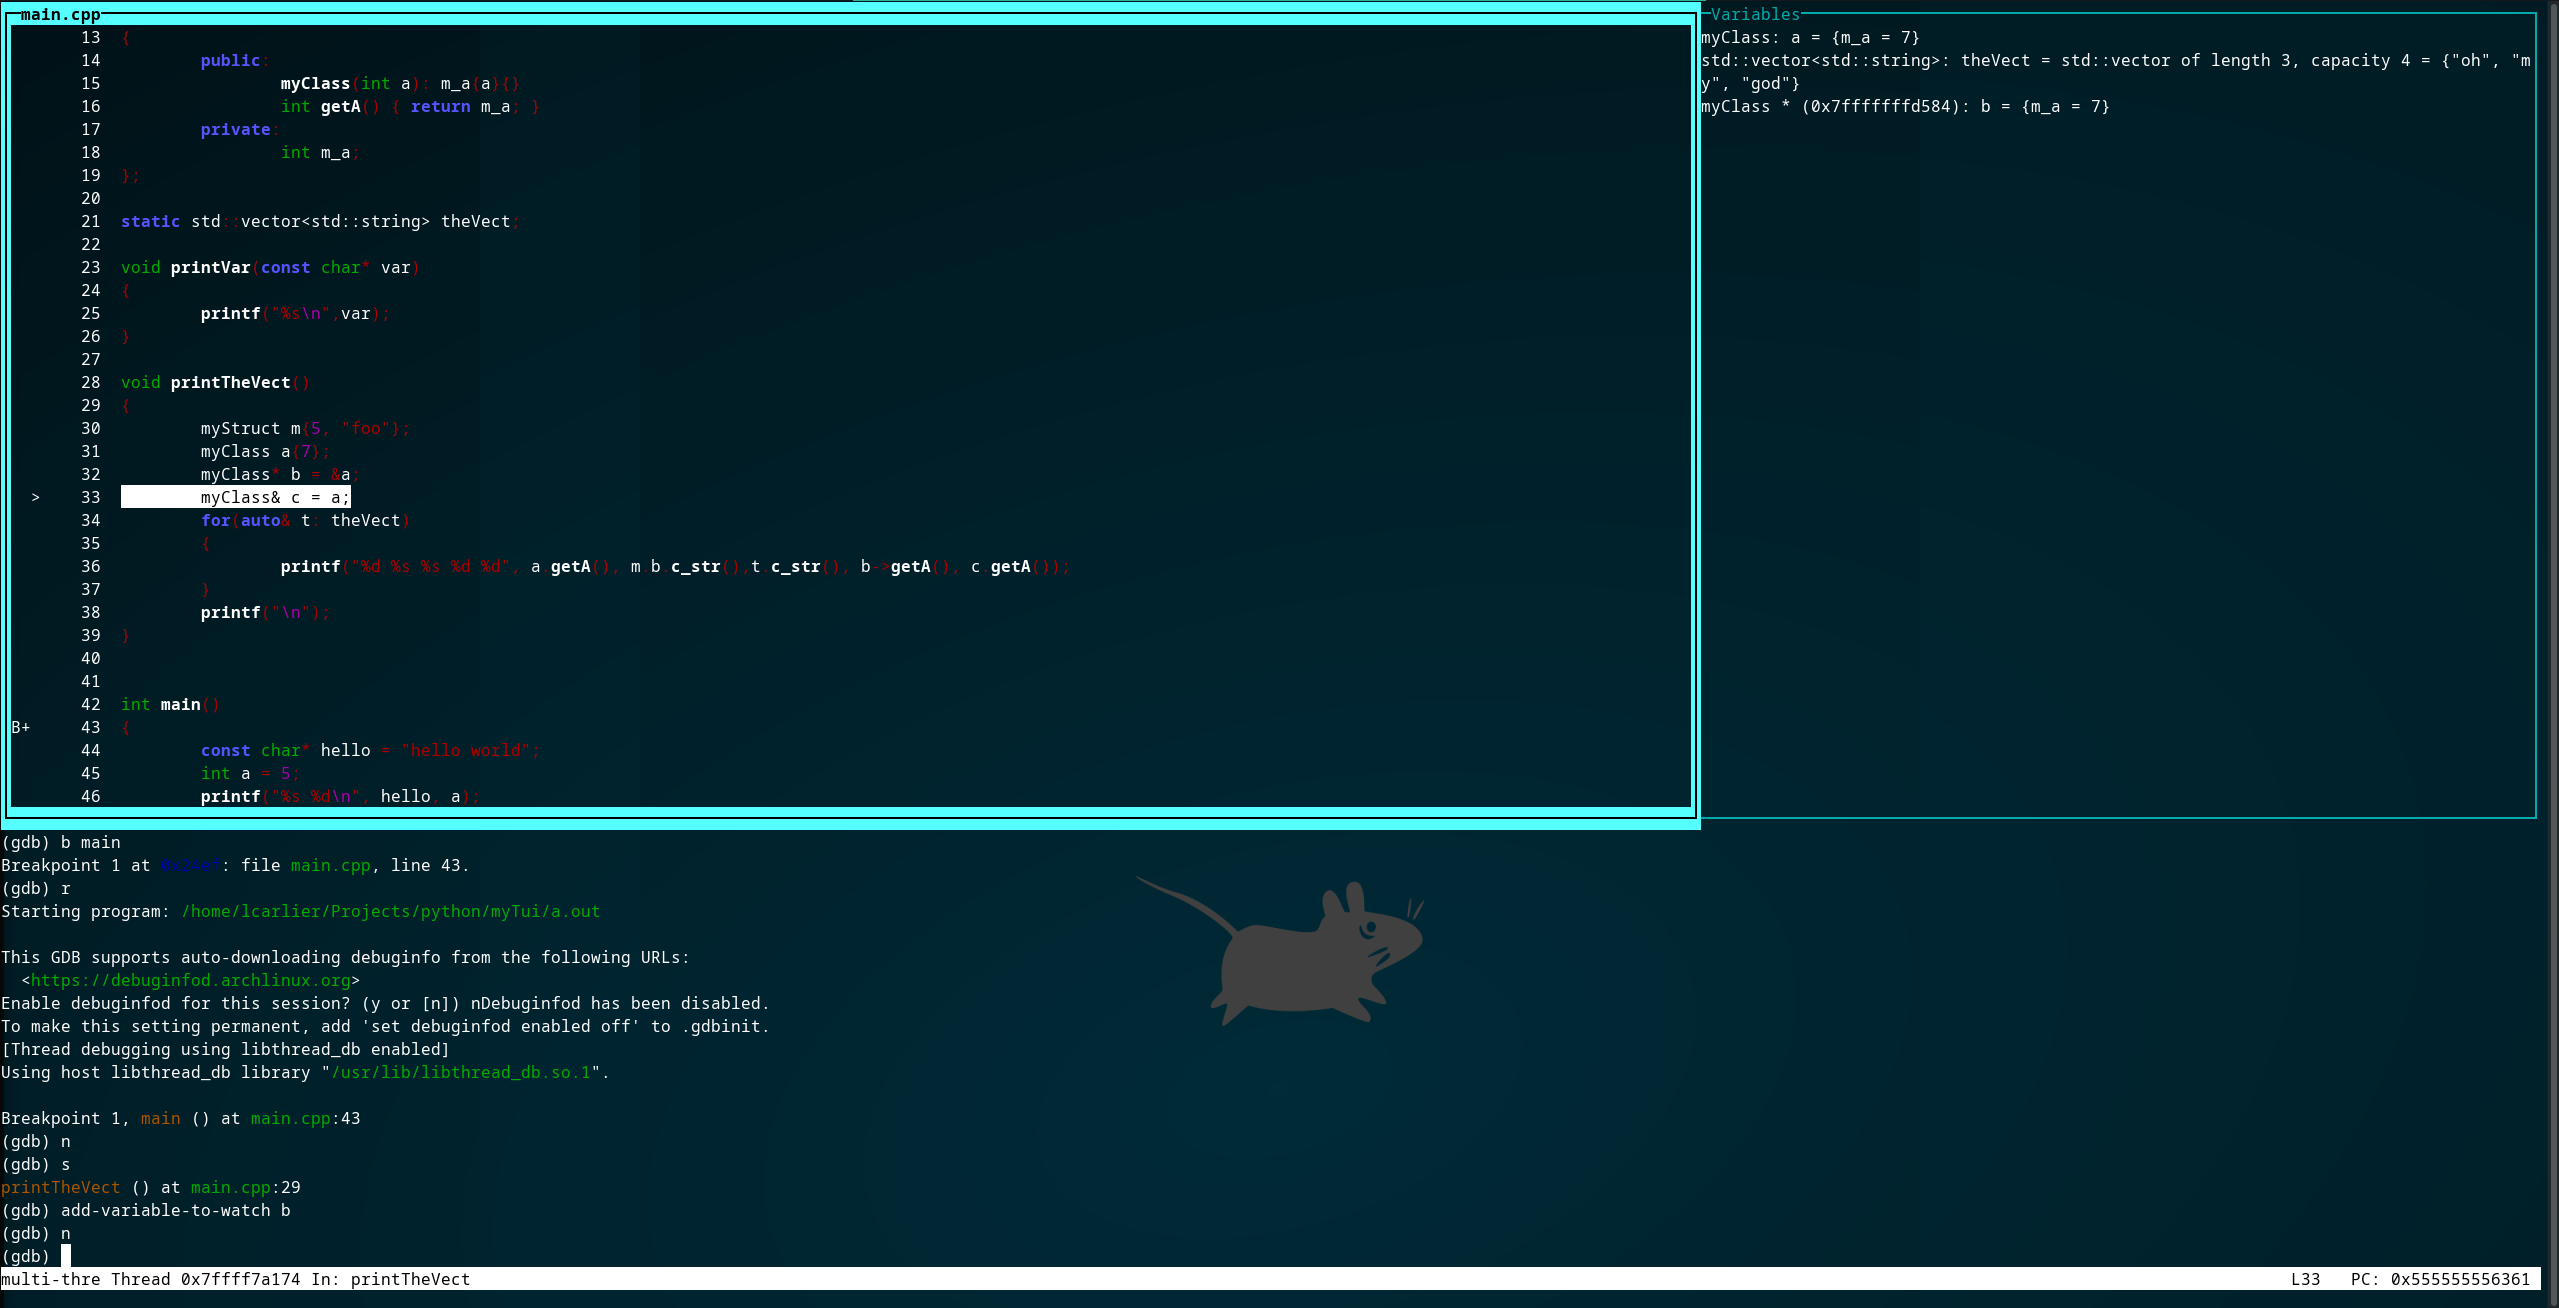
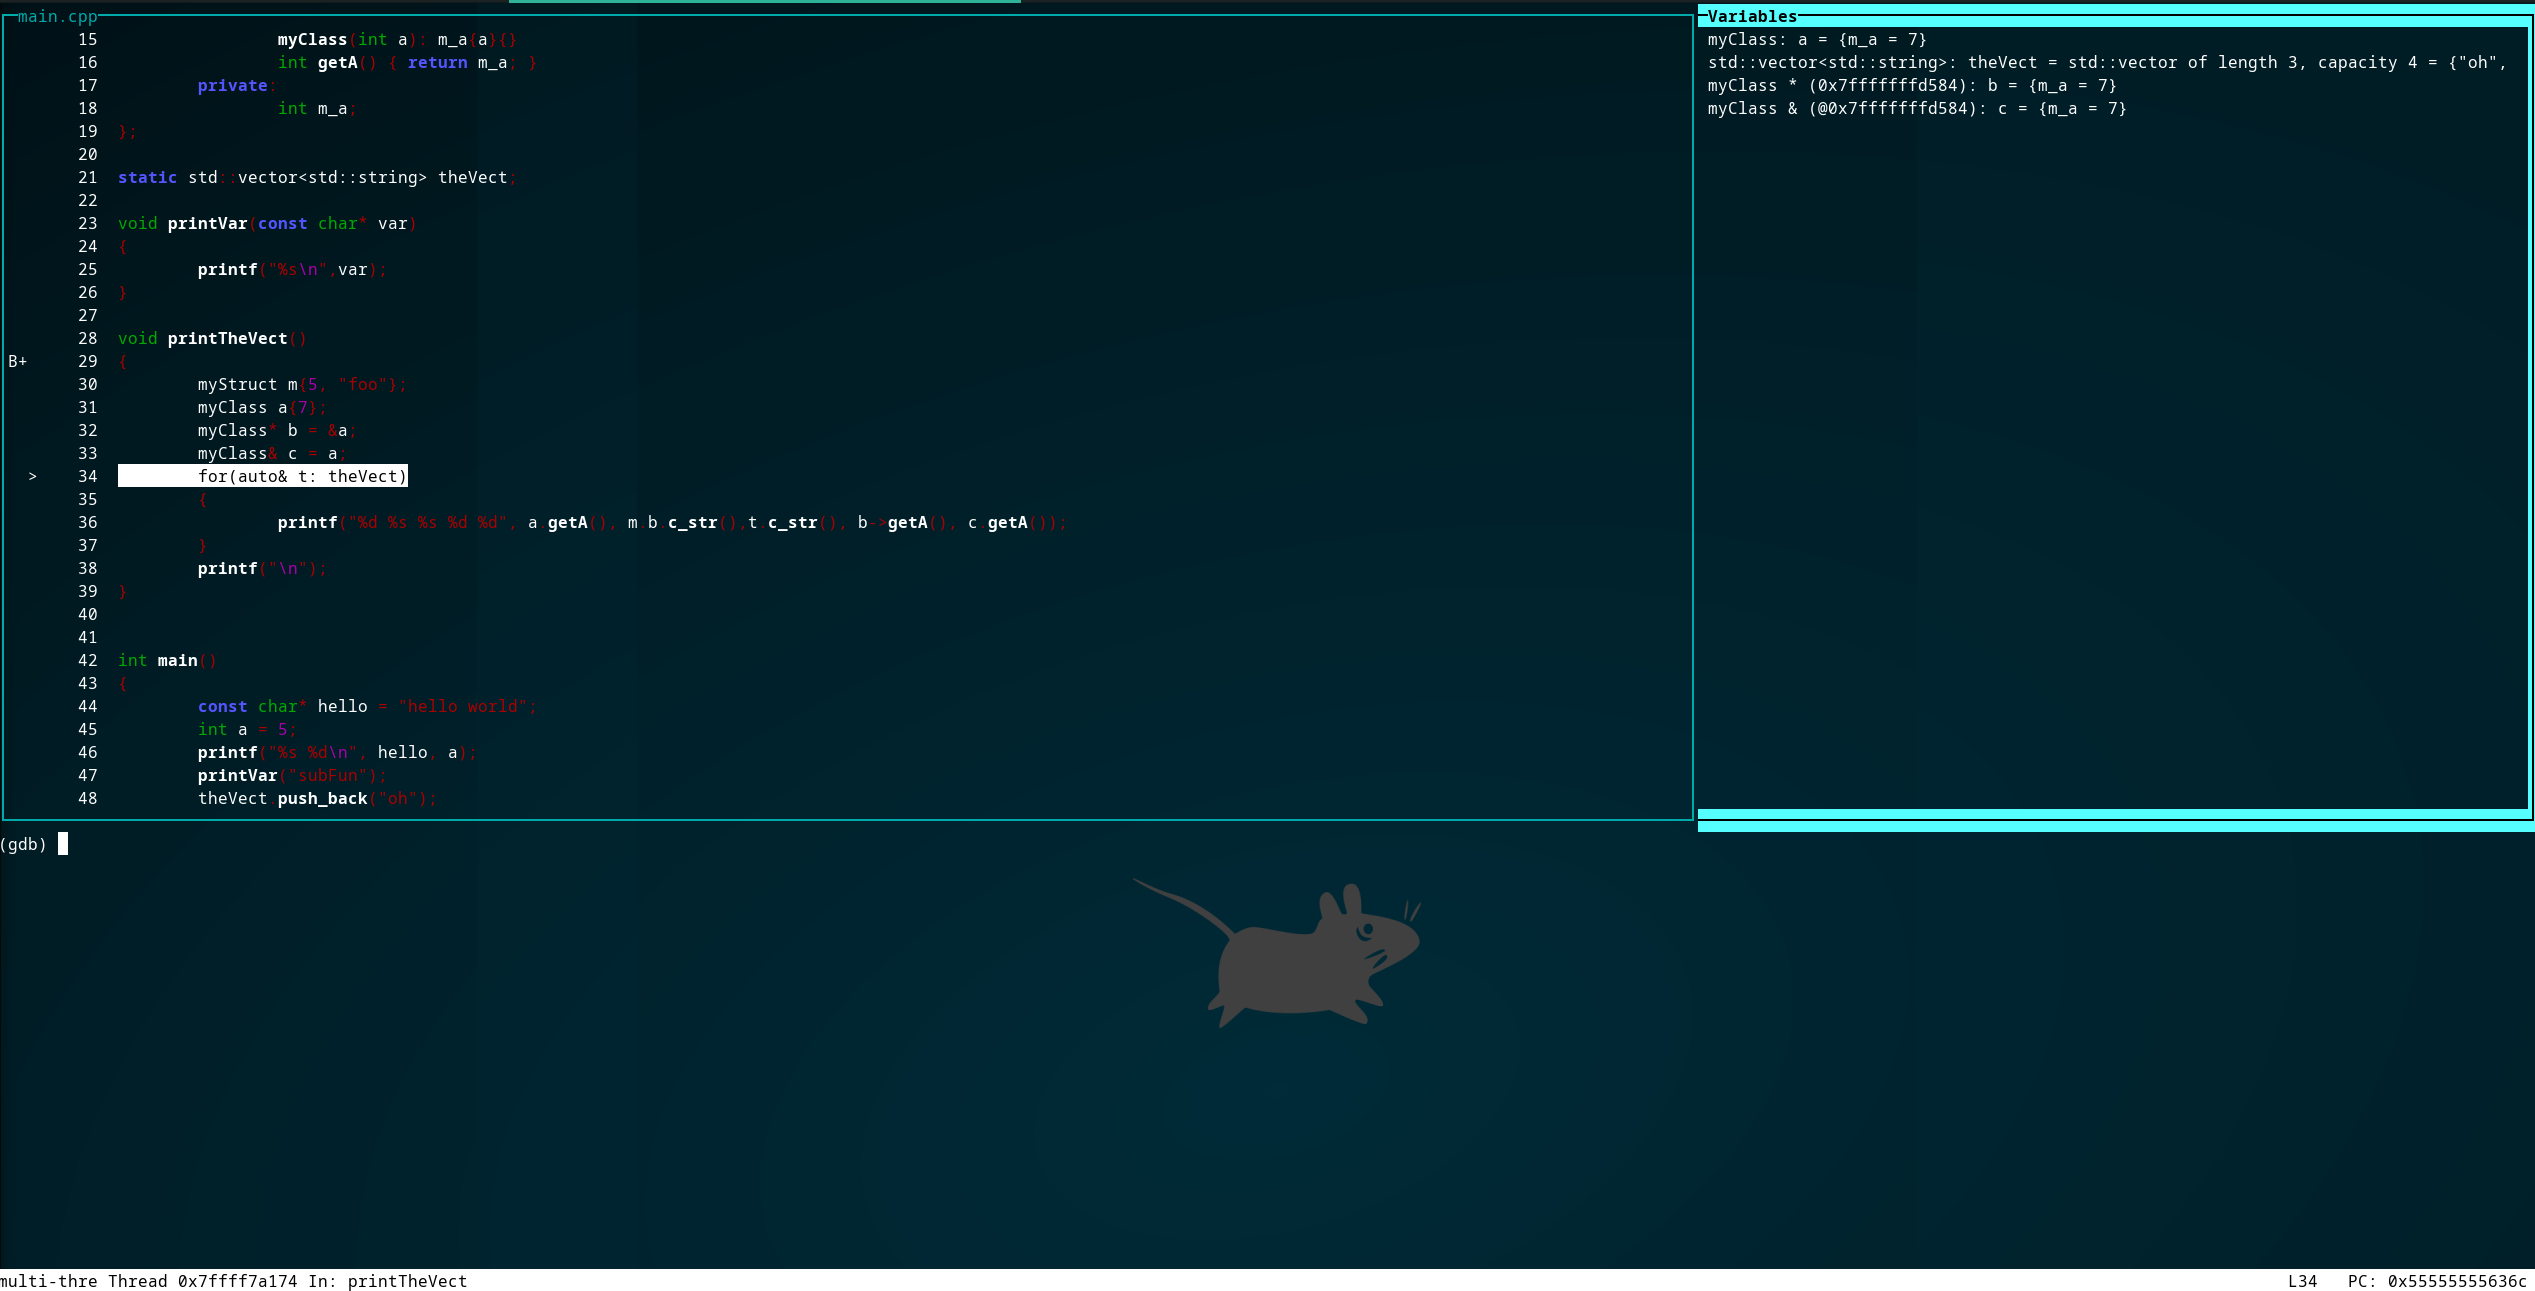
Implement scrolling

Changed region(s): [[0.0, 0.0, 1.0, 1.0], [0.4363, 0.6816, 0.5609, 0.8056], [0.3116, 0.4028, 0.4051, 0.4338]]

diff --git a/watchVariable.py b/watchVariable.py
@@ -7,10 +7,12 @@ class watch_variable_window:
         self._tui_window = tui_window
         self._tui_window.title = 'Variables'
         self._before_prompt_listener = lambda : self._before_prompt()
+        self.vpos = 0
+        self.hpos = 0
         gdb.events.before_prompt.connect(self._before_prompt_listener)
         self.whatisRE = re.compile(r"type = (.*)")
 
-    def printVar(self, varName):
+    def getPrintVar(self, varName):
         typeStr = ""
         addrOf = None
         try:
@@ -19,8 +21,7 @@ class watch_variable_window:
             result = self.whatisRE.match(typeStr)
             typeStr = result[1]
         except gdb.error as gdbError:
-            self._tui_window.write(f"{varName} = {gdbError}\n");
-            return
+            return f" {varName} = {gdbError}"
 
         code = varValue.type.code
         if(code == gdb.TYPE_CODE_PTR or code == gdb.TYPE_CODE_REF):
@@ -29,14 +30,45 @@ class watch_variable_window:
             typeStr = f"{typeStr} ({addrOf})"
         
         try:
-            self._tui_window.write(f"{typeStr}: {varName} = {varValue}\n");
+            return f" {typeStr}: {varName} = {varValue}"
         except gdb.MemoryError as memoryError:
-            self._tui_window.write(f"{typeStr}: {varName} = {memoryError}")
+            return f" {typeStr}: {varName} = {memoryError}"
+
+    def vscroll(self, offset):
+        self.vpos = max(0, self.vpos + offset)
+        self.render()
+
+    def hscroll(self, offset):
+        self.hpos = max(0, self.hpos + offset)
+        self.render()
 
     def render(self):
         self._tui_window.erase();
+
+        maxWidth = 0
         for varToWatch in variable_to_watch:
-            self.printVar(varToWatch)
+            allLines.append(self.getPrintVar(varToWatch))
+            maxWidth = max(maxWidth, len(allLines[-1]))
+
+        winWidth = self._tui_window.width
+        winHeight = self._tui_window.height
+        win = self._tui_window
+
+        allLines = []
+        hOffset = 0
+        if(maxWidth > winWidth):
+            hOffset = self.hpos
+        else:
+            self.hpos = 0
+
+        vOffset = 0
+        if(len(allLines) > winHeight):
+            vOffset = self.vpos
+        else:
+            self.vpos = 0
+
+        for line in allLines[vOffset:vOffset + winHeight]:
+            self._tui_window.write(f"{line[hOffset:hOffset + winWidth - 1]}\n")
 
     def _before_prompt(self):
         self.render()
@@ -51,6 +83,9 @@ class AddVarToWatch(gdb.Command):
         return gdb.COMPLETE_SYMBOL
 
     def invoke(self, args, from_tty):
+        if len(args) == 0:
+            print(f"One argument is needed")
+            return
         if len(args.split(" ")) != 1:
             print(f"Expected 1 parameter only {args}")
             return
@@ -66,6 +101,9 @@ class RemoveVarToWatch(gdb.Command):
         return gdb.COMPLETE_SYMBOL
 
     def invoke(self, args, from_tty):
+        if len(args) == 0:
+            print(f"One argument is needed")
+            return
         if len(args.split(" ")) != 1:
             print(f"Expected 1 parameter only {args}")
             return
